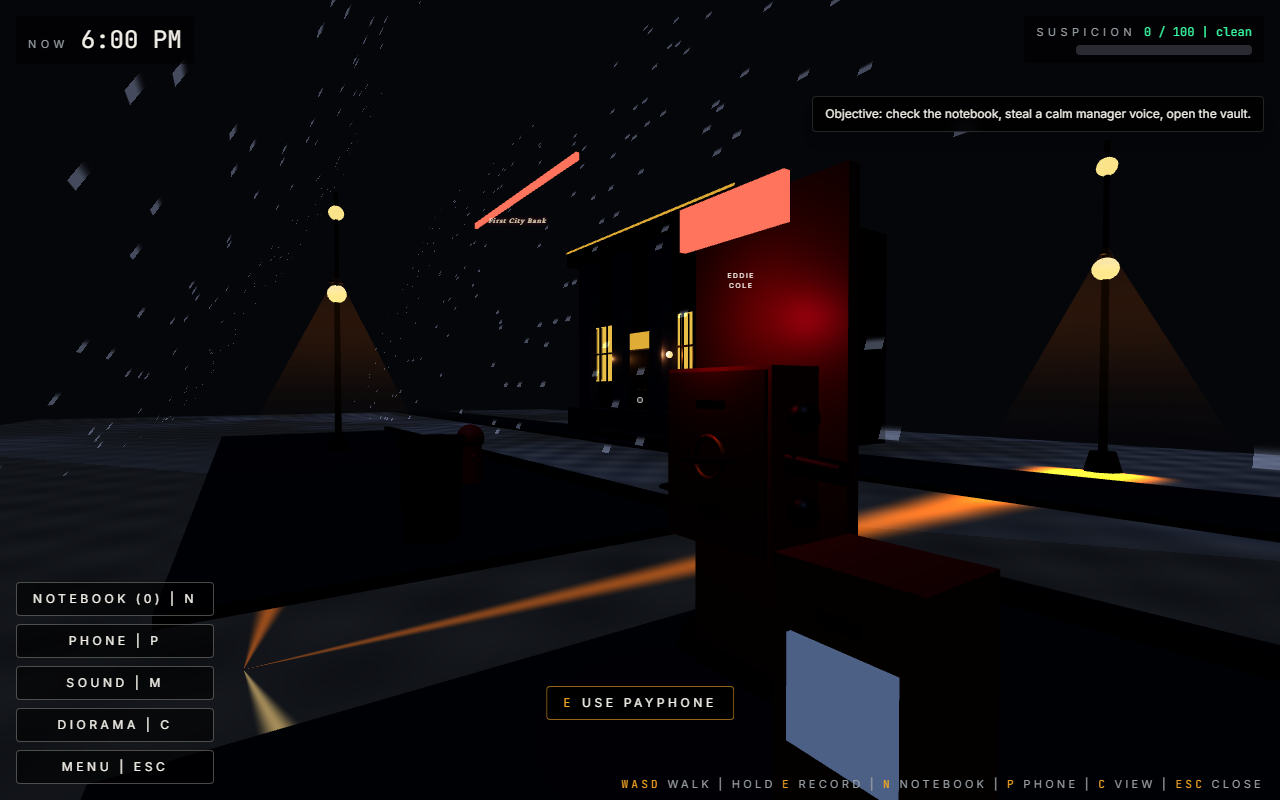
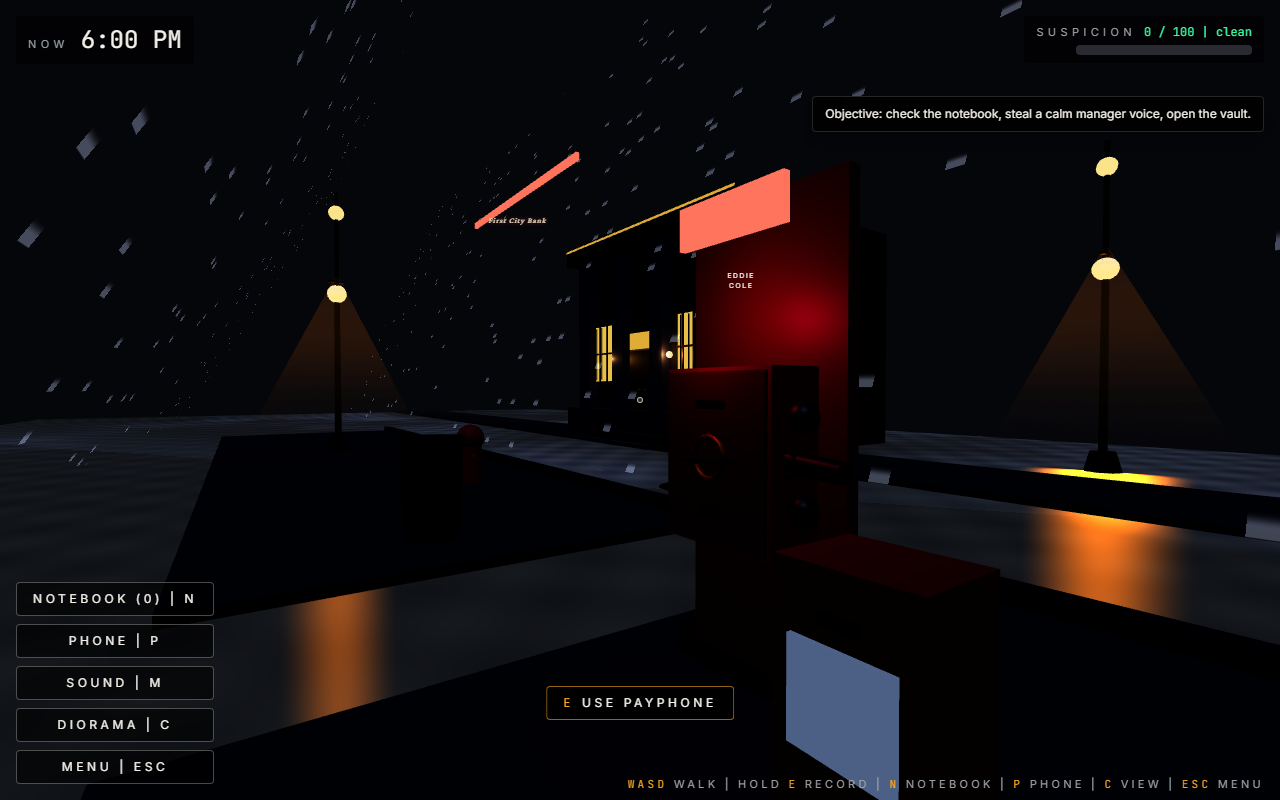
Polish final gameplay UX

diff --git a/src/components/game/HUD.tsx b/src/components/game/HUD.tsx
@@ -1,6 +1,6 @@
 "use client";
 
-import { useEffect, useState } from "react";
+import { useCallback, useEffect, useState } from "react";
 import { useGame } from "@/game/store";
 import { clockLabel } from "@/game/timeFormat";
 import { GAME_END_SECONDS } from "@/game/types";
@@ -8,6 +8,8 @@ import { beginRecording, endRecording } from "@/game/recordingManager";
 import { useInteractionHotkey } from "@/game/interactionHotkey";
 import { useInteraction, describeAction } from "@/game/interactionState";
 import { suspicionTier } from "@/game/emotionDisplay";
+import { stopAllUiAudio } from "@/audio/play";
+import { stopAllNpcAudio } from "@/audio/npcSpeech";
 
 const RECORD_GOOD_MS = 5000;
 const RECORD_MAX_MS = 30000;
@@ -35,6 +37,15 @@ export default function HUD() {
 
   useInteractionHotkey();
 
+  const handleToggleMute = useCallback(() => {
+    const willMute = !useGame.getState().audioMuted;
+    toggleMute();
+    if (willMute) {
+      stopAllUiAudio();
+      stopAllNpcAudio();
+    }
+  }, [toggleMute]);
+
   useEffect(() => {
     function onKey(e: KeyboardEvent) {
       const t = e.target as HTMLElement | null;
@@ -44,7 +55,7 @@ export default function HUD() {
       ) {
         return;
       }
-      if (e.key === "m" || e.key === "M") toggleMute();
+      if (e.key === "m" || e.key === "M") handleToggleMute();
       if (e.key === "n" || e.key === "N") toggleNotebook();
       if (e.key === "p" || e.key === "P") togglePhone();
       if (e.key === "c" || e.key === "C") toggleViewMode();
@@ -57,10 +68,10 @@ export default function HUD() {
     return () => window.removeEventListener("keydown", onKey);
   }, [
     activeAuth,
+    handleToggleMute,
     notebookOpen,
     phoneOpen,
     toggleMenu,
-    toggleMute,
     toggleNotebook,
     togglePhone,
     toggleViewMode,
@@ -120,16 +131,16 @@ export default function HUD() {
       )}
 
       {/* Clock */}
-      <div className="absolute left-4 top-4 flex items-baseline gap-3 rounded bg-black/60 px-3 py-2 text-noir-paper backdrop-blur">
-        <span className="text-[11px] uppercase tracking-[0.4em] text-noir-fog">Now</span>
+      <div className="absolute left-2 top-2 flex items-baseline gap-2 rounded bg-black/60 px-2 py-1.5 text-noir-paper backdrop-blur sm:left-4 sm:top-4 sm:gap-3 sm:px-3 sm:py-2">
+        <span className="text-[10px] uppercase tracking-[0.3em] text-noir-fog sm:text-[11px] sm:tracking-[0.4em]">Now</span>
         <span
-          className={`font-mono text-2xl ${timeUrgent ? "animate-neon-flicker text-noir-neon" : ""}`}
+          className={`font-mono text-xl sm:text-2xl ${timeUrgent ? "animate-neon-flicker text-noir-neon" : ""}`}
         >
           {clockLabel(time)}
         </span>
         {isPaused && (
           <span
-            className="ml-1 rounded border border-noir-amber/60 px-2 py-0.5 text-[11px] uppercase tracking-[0.3em] text-noir-amber"
+            className="ml-1 rounded border border-noir-amber/60 px-1.5 py-0.5 text-[10px] uppercase tracking-[0.25em] text-noir-amber sm:px-2 sm:text-[11px] sm:tracking-[0.3em]"
             role="status"
             aria-live="polite"
           >
@@ -139,9 +150,9 @@ export default function HUD() {
       </div>
 
       {/* Suspicion */}
-      <div className="absolute right-4 top-4 flex flex-col items-end gap-1 rounded bg-black/60 px-3 py-2 backdrop-blur">
+      <div className="absolute right-2 top-2 flex flex-col items-end gap-1 rounded bg-black/60 px-2 py-1.5 backdrop-blur sm:right-4 sm:top-4 sm:px-3 sm:py-2">
         <div className="flex items-baseline gap-2">
-          <span className="text-[11px] uppercase tracking-[0.4em] text-noir-fog">Suspicion</span>
+          <span className="hidden text-[11px] uppercase tracking-[0.4em] text-noir-fog sm:inline">Suspicion</span>
           <span
             className="font-mono text-xs"
             style={{ color: suspColor }}
@@ -151,7 +162,7 @@ export default function HUD() {
           </span>
         </div>
         <div
-          className="h-2.5 w-44 overflow-hidden rounded bg-noir-ash"
+          className="h-2 w-32 overflow-hidden rounded bg-noir-ash sm:h-2.5 sm:w-44"
           role="progressbar"
           aria-valuemin={0}
           aria-valuemax={100}
@@ -166,67 +177,72 @@ export default function HUD() {
       </div>
 
       {/* Bottom-left button rail */}
-      <div className="pointer-events-auto absolute bottom-4 left-4 flex flex-col gap-2">
+      <div className="pointer-events-auto absolute bottom-2 left-2 right-2 grid grid-cols-5 gap-1 sm:bottom-4 sm:left-4 sm:right-auto sm:flex sm:flex-col sm:gap-2">
         <button
           onClick={() => toggleNotebook()}
           aria-label="Open notebook"
-          className="rounded border border-noir-paper/30 bg-black/60 px-4 py-2 text-xs uppercase tracking-[0.3em] text-noir-paper hover:bg-noir-paper hover:text-black focus:outline-none focus-visible:ring-2 focus-visible:ring-noir-amber"
+          className="rounded border border-noir-paper/30 bg-black/60 px-2 py-2 text-[10px] uppercase tracking-[0.15em] text-noir-paper hover:bg-noir-paper hover:text-black focus:outline-none focus-visible:ring-2 focus-visible:ring-noir-amber sm:px-4 sm:text-xs sm:tracking-[0.3em]"
         >
-          Notebook ({inventory.length}) | N
+          <span className="sm:hidden">Notes</span>
+          <span className="hidden sm:inline">Notebook ({inventory.length}) | N</span>
         </button>
         <button
           onClick={() => togglePhone()}
           aria-label="Open phone"
-          className="rounded border border-noir-paper/30 bg-black/60 px-4 py-2 text-xs uppercase tracking-[0.3em] text-noir-paper hover:bg-noir-paper hover:text-black focus:outline-none focus-visible:ring-2 focus-visible:ring-noir-amber"
+          className="rounded border border-noir-paper/30 bg-black/60 px-2 py-2 text-[10px] uppercase tracking-[0.15em] text-noir-paper hover:bg-noir-paper hover:text-black focus:outline-none focus-visible:ring-2 focus-visible:ring-noir-amber sm:px-4 sm:text-xs sm:tracking-[0.3em]"
         >
-          Phone | P
+          <span className="sm:hidden">Phone</span>
+          <span className="hidden sm:inline">Phone | P</span>
         </button>
         <button
-          onClick={() => toggleMute()}
+          onClick={handleToggleMute}
           aria-label={audioMuted ? "Unmute audio" : "Mute audio"}
           aria-pressed={audioMuted}
-          className={`rounded border bg-black/60 px-4 py-2 text-xs uppercase tracking-[0.3em] hover:bg-noir-paper hover:text-black focus:outline-none focus-visible:ring-2 focus-visible:ring-noir-amber ${
+          className={`rounded border bg-black/60 px-2 py-2 text-[10px] uppercase tracking-[0.15em] hover:bg-noir-paper hover:text-black focus:outline-none focus-visible:ring-2 focus-visible:ring-noir-amber sm:px-4 sm:text-xs sm:tracking-[0.3em] ${
             audioMuted
               ? "border-noir-amber text-noir-amber"
               : "border-noir-paper/30 text-noir-paper"
           }`}
         >
-          {audioMuted ? "Muted | M" : "Sound | M"}
+          <span className="sm:hidden">{audioMuted ? "Mute" : "Sound"}</span>
+          <span className="hidden sm:inline">{audioMuted ? "Muted | M" : "Sound | M"}</span>
         </button>
         <button
           onClick={() => toggleViewMode()}
           aria-label={viewMode === "fp" ? "Switch to diorama view" : "Switch to first-person view"}
           aria-pressed={viewMode === "diorama"}
-          className="rounded border border-noir-paper/30 bg-black/60 px-4 py-2 text-xs uppercase tracking-[0.3em] text-noir-paper hover:bg-noir-paper hover:text-black focus:outline-none focus-visible:ring-2 focus-visible:ring-noir-amber"
+          className="rounded border border-noir-paper/30 bg-black/60 px-2 py-2 text-[10px] uppercase tracking-[0.15em] text-noir-paper hover:bg-noir-paper hover:text-black focus:outline-none focus-visible:ring-2 focus-visible:ring-noir-amber sm:px-4 sm:text-xs sm:tracking-[0.3em]"
         >
-          {viewMode === "fp" ? "Diorama | C" : "First-person | C"}
+          <span className="sm:hidden">View</span>
+          <span className="hidden sm:inline">{viewMode === "fp" ? "Diorama | C" : "First-person | C"}</span>
         </button>
         <button
           onClick={() => toggleMenu(true)}
           aria-label="Open pause menu"
-          className="rounded border border-noir-paper/30 bg-black/60 px-4 py-2 text-xs uppercase tracking-[0.3em] text-noir-paper hover:bg-noir-paper hover:text-black focus:outline-none focus-visible:ring-2 focus-visible:ring-noir-amber"
+          className="rounded border border-noir-paper/30 bg-black/60 px-2 py-2 text-[10px] uppercase tracking-[0.15em] text-noir-paper hover:bg-noir-paper hover:text-black focus:outline-none focus-visible:ring-2 focus-visible:ring-noir-amber sm:px-4 sm:text-xs sm:tracking-[0.3em]"
         >
-          Menu | Esc
+          <span className="sm:hidden">Menu</span>
+          <span className="hidden sm:inline">Menu | Esc</span>
         </button>
       </div>
 
       {/* Persistent control strip */}
-      <div className="pointer-events-none absolute bottom-2 right-4 text-right">
+      <div className="pointer-events-none absolute bottom-2 right-4 hidden text-right sm:block">
         <p className="text-[11px] uppercase tracking-[0.3em] text-noir-fog">
           {viewMode === "fp" ? (
             <>
-              <kbd className="text-noir-amber">WASD</kbd> walk | Hold <kbd className="text-noir-amber">E</kbd> record | <kbd className="text-noir-amber">N</kbd> notebook | <kbd className="text-noir-amber">P</kbd> phone | <kbd className="text-noir-amber">C</kbd> view | <kbd className="text-noir-amber">Esc</kbd> close
+              <kbd className="text-noir-amber">WASD</kbd> walk | Hold <kbd className="text-noir-amber">E</kbd> record | <kbd className="text-noir-amber">N</kbd> notebook | <kbd className="text-noir-amber">P</kbd> phone | <kbd className="text-noir-amber">C</kbd> view | <kbd className="text-noir-amber">Esc</kbd> menu
             </>
           ) : (
             <>
-              Click to walk | Hold <kbd className="text-noir-amber">E</kbd> record | <kbd className="text-noir-amber">N</kbd> notebook | <kbd className="text-noir-amber">P</kbd> phone | <kbd className="text-noir-amber">C</kbd> view | <kbd className="text-noir-amber">Esc</kbd> close
+              Click to walk | Hold <kbd className="text-noir-amber">E</kbd> record | <kbd className="text-noir-amber">N</kbd> notebook | <kbd className="text-noir-amber">P</kbd> phone | <kbd className="text-noir-amber">C</kbd> view | <kbd className="text-noir-amber">Esc</kbd> menu
             </>
           )}
         </p>
       </div>
 
       {/* Centered interaction prompt (FP) / Record indicator */}
-      <div className="absolute bottom-20 left-1/2 -translate-x-1/2 transform">
+      <div className="absolute bottom-24 left-1/2 -translate-x-1/2 transform sm:bottom-20">
         {focus && (
           <div className="flex flex-col items-center gap-2">
             {focus.kind === "record" ? (

diff --git a/src/components/game/PhoneUI.tsx b/src/components/game/PhoneUI.tsx
@@ -36,10 +36,13 @@ export default function PhoneUI() {
   const inGameTime = useGame((s) => s.inGameTime);
 
   const [target, setTarget] = useState<NpcId>("bankManager");
-  const [voiceCardId, setVoiceCardId] = useState<string>(inventory[0]?.id ?? "");
+  const [voiceCardId, setVoiceCardId] = useState("");
   const [message, setMessage] = useState("");
   const [pending, setPending] = useState(false);
-  const selectedVoiceCardId = voiceCardId || inventory[0]?.id || "";
+  const storedVoiceCard = inventory.find((card) => card.id === voiceCardId);
+  const selectedVoiceCard =
+    storedVoiceCard ?? inventory.find((card) => card.npcId !== target) ?? inventory[0] ?? null;
+  const selectedVoiceCardId = selectedVoiceCard?.id ?? "";
 
   useEffect(() => {
     function onKey(e: KeyboardEvent) {
@@ -170,7 +173,7 @@ export default function PhoneUI() {
   }
 
   // Pick a placeholder hint based on (caller voice → target) combo.
-  const callerVoiceNpcId = inventory.find((c) => c.id === selectedVoiceCardId)?.npcId ?? null;
+  const callerVoiceNpcId = selectedVoiceCard?.npcId ?? null;
   const placeholder = phonePlaceholder(callerVoiceNpcId, target);
   const hasVoices = inventory.length > 0;
 
@@ -181,8 +184,8 @@ export default function PhoneUI() {
       aria-modal="true"
       aria-labelledby="phone-title"
     >
-      <div className="w-[min(720px,92vw)] rounded border border-noir-amber/40 bg-noir-smoke p-6 text-noir-paper shadow-2xl ring-1 ring-noir-amber/10">
-        <div className="mb-4 flex items-baseline justify-between">
+      <div className="w-[min(720px,94vw)] rounded border border-noir-amber/40 bg-noir-smoke p-4 text-noir-paper shadow-2xl ring-1 ring-noir-amber/10 sm:p-6">
+        <div className="mb-4 flex items-baseline justify-between gap-4">
           <div className="flex items-baseline gap-3">
             <span aria-hidden className="text-noir-amber text-xl">☎</span>
             <h2 id="phone-title" className="font-serif text-2xl italic">The Phone</h2>
@@ -198,13 +201,13 @@ export default function PhoneUI() {
           </button>
         </div>
 
-        <div className="grid grid-cols-2 gap-3">
+        <div className="grid grid-cols-1 gap-3 sm:grid-cols-2">
           <label className="text-[11px] uppercase tracking-[0.3em] text-noir-fog">
             Call
             <select
               value={target}
               onChange={(e) => setTarget(e.target.value as NpcId)}
-              className="mt-1 w-full rounded bg-noir-ash px-3 py-2 text-sm text-noir-paper"
+              className="mt-1 w-full rounded bg-noir-ash px-3 py-2 text-xs text-noir-paper sm:text-sm"
             >
               {TARGETS.map((t) => (
                 <option key={t} value={t}>
@@ -219,7 +222,7 @@ export default function PhoneUI() {
             <select
               value={selectedVoiceCardId}
               onChange={(e) => setVoiceCardId(e.target.value)}
-              className="mt-1 w-full rounded bg-noir-ash px-3 py-2 text-sm text-noir-paper"
+              className="mt-1 w-full rounded bg-noir-ash px-3 py-2 text-xs text-noir-paper sm:text-sm"
             >
               {!hasVoices && <option value="">-- no voices yet --</option>}
               {inventory.map((card) => (

diff --git a/src/components/game/Notebook.tsx b/src/components/game/Notebook.tsx
@@ -39,7 +39,7 @@ export default function Notebook() {
       aria-labelledby="notebook-title"
     >
       <div
-        className="relative h-[80%] w-[min(900px,90vw)] overflow-hidden rounded border border-noir-paper/25 text-noir-paper shadow-2xl"
+        className="relative flex h-[88dvh] w-[min(900px,94vw)] flex-col overflow-hidden rounded border border-noir-paper/25 text-noir-paper shadow-2xl sm:h-[80%] sm:w-[min(900px,90vw)]"
         style={{
           backgroundColor: "#221d18",
           backgroundImage:
@@ -47,10 +47,10 @@ export default function Notebook() {
             "repeating-linear-gradient(0deg, transparent 0, transparent 28px, rgba(244,241,234,0.025) 28px, rgba(244,241,234,0.025) 29px)",
         }}
       >
-        <div className="flex items-center justify-between border-b border-noir-paper/15 px-6 py-3">
-          <div className="flex items-baseline gap-3">
+        <div className="flex flex-col gap-2 border-b border-noir-paper/15 px-4 py-3 sm:flex-row sm:items-center sm:justify-between sm:px-6">
+          <div className="flex min-w-0 items-baseline gap-3">
             <h2 id="notebook-title" className="font-serif text-2xl italic">Notebook</h2>
-            <span className="text-[10px] uppercase tracking-[0.4em] text-noir-fog">
+            <span className="truncate text-[10px] uppercase tracking-[0.25em] text-noir-fog sm:tracking-[0.4em]">
               First City — Thursday
             </span>
           </div>
@@ -62,12 +62,12 @@ export default function Notebook() {
           </button>
         </div>
 
-        <div className="flex border-b border-noir-paper/10">
+        <div className="grid grid-cols-2 border-b border-noir-paper/10 sm:flex">
           {TABS.map((t) => (
             <button
               key={t}
               onClick={() => setTab(t)}
-              className={`flex-1 py-3 text-[11px] uppercase tracking-[0.4em] ${
+              className={`py-3 text-[10px] uppercase tracking-[0.25em] sm:flex-1 sm:text-[11px] sm:tracking-[0.4em] ${
                 tab === t ? "bg-noir-ash text-noir-paper" : "text-noir-fog hover:text-noir-paper"
               }`}
             >
@@ -76,7 +76,7 @@ export default function Notebook() {
           ))}
         </div>
 
-        <div className="h-[calc(100%-100px)] overflow-y-auto scrollbar-thin px-6 py-4">
+        <div className="min-h-0 flex-1 overflow-y-auto scrollbar-thin px-4 py-4 sm:px-6">
           {tab === "leads" && (
             <div className="space-y-3">
               {leads.map((lead) => (

diff --git a/src/components/game/PauseMenu.tsx b/src/components/game/PauseMenu.tsx
@@ -28,23 +28,23 @@ export default function PauseMenu() {
       aria-modal="true"
       aria-labelledby="pause-title"
     >
-      <div className="w-[min(520px,92vw)] rounded border border-noir-paper/25 bg-noir-smoke p-6 text-noir-paper shadow-2xl">
+      <div className="w-[min(520px,92vw)] rounded border border-noir-paper/25 bg-noir-smoke p-5 text-noir-paper shadow-2xl sm:p-6">
         <p className="text-[10px] uppercase tracking-[0.4em] text-noir-fog">Paused</p>
         <h2 id="pause-title" className="mt-1 font-serif text-4xl italic">
           The job waits.
         </h2>
         <div className="mt-5 grid grid-cols-3 gap-2 text-center">
-          <div className="rounded border border-noir-paper/10 bg-black/35 px-3 py-2">
+          <div className="rounded border border-noir-paper/10 bg-black/35 px-2 py-2 sm:px-3">
             <p className="text-[10px] uppercase tracking-[0.3em] text-noir-fog">Time</p>
-            <p className="mt-1 font-mono text-lg">{clockLabel(inGameTime)}</p>
+            <p className="mt-1 whitespace-nowrap font-mono text-base sm:text-lg">{clockLabel(inGameTime)}</p>
           </div>
-          <div className="rounded border border-noir-paper/10 bg-black/35 px-3 py-2">
+          <div className="rounded border border-noir-paper/10 bg-black/35 px-2 py-2 sm:px-3">
             <p className="text-[10px] uppercase tracking-[0.3em] text-noir-fog">Voices</p>
-            <p className="mt-1 font-mono text-lg">{voiceCount}</p>
+            <p className="mt-1 font-mono text-base sm:text-lg">{voiceCount}</p>
           </div>
-          <div className="rounded border border-noir-paper/10 bg-black/35 px-3 py-2">
+          <div className="rounded border border-noir-paper/10 bg-black/35 px-2 py-2 sm:px-3">
             <p className="text-[10px] uppercase tracking-[0.3em] text-noir-fog">Heat</p>
-            <p className="mt-1 font-mono text-lg">{Math.round(suspicion)}</p>
+            <p className="mt-1 font-mono text-base sm:text-lg">{Math.round(suspicion)}</p>
           </div>
         </div>
         <p className="mt-4 text-sm text-noir-fog">

diff --git a/src/audio/play.ts b/src/audio/play.ts
@@ -2,6 +2,8 @@
 
 import { useGame } from "@/game/store";
 
+const activeAudio = new Set<HTMLAudioElement>();
+
 /**
  * Play a base64 data: URL (or any audio src) respecting the global mute
  * + volume settings from the store. No-op when muted.
@@ -12,10 +14,24 @@ export function playAudio(src: string | null): HTMLAudioElement | null {
   if (audioMuted) return null;
   try {
     const audio = new Audio(src);
+    const cleanup = () => activeAudio.delete(audio);
     audio.volume = audioVolume;
+    activeAudio.add(audio);
+    audio.addEventListener("ended", cleanup, { once: true });
+    audio.addEventListener("error", cleanup, { once: true });
     audio.play().catch(() => {});
     return audio;
   } catch {
     return null;
   }
+}
+
+export function stopAllUiAudio(): void {
+  for (const audio of activeAudio) {
+    try {
+      audio.pause();
+      audio.currentTime = 0;
+    } catch {}
+  }
+  activeAudio.clear();
 }

diff --git a/README.md b/README.md
@@ -255,8 +255,9 @@ all four APIs so the game is fully playable without any keys.
   state.
 - **M** toggles a global mute that's respected by all synthesized speech
   playback (TTS calls, voice-auth playback, scripted NPC dialogue).
-- All HUD label text is at least 11px; transcript captions render alongside
-  audio playback.
+- HUD controls compress on mobile instead of overlapping. Phone calls render
+  transcript text; ambient and replayed voice lines are represented in the
+  notebook and schedule text.
 
 ## Credits
 

diff --git a/docs/E2E_REPORT.md b/docs/E2E_REPORT.md
@@ -74,5 +74,5 @@ VT_MOCK_AI=1 npm run dev    # in one terminal
 node vt-e2e.cjs              # in another
 ```
 
-Captured screenshots end up in `docs/test-shots/` and are embedded in the
-README.
+Captured screenshots end up in `docs/test-shots/` for inspection. The README
+tour uses the curated `docs/screenshots/` set generated by `vt-fp-shots.cjs`.
